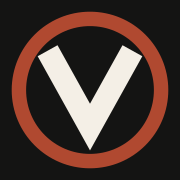
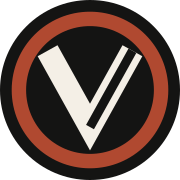
feat(website): sync Veristamp circle mark and double-slit V
- Pure-circle house mark in favicon, logo, app icons, ICO
- favicon.svg and logo.svg are OS-aware two-tone
- OG card emblem carries the double-slit V

diff --git a/website/src/pages/open-graph/[...slug].png.ts b/website/src/pages/open-graph/[...slug].png.ts
@@ -118,9 +118,12 @@ function generateSvg({
 
   <!-- Top bar -->
   <g transform="translate(80, 80)">
-    <!-- Veristamp attestation ring -->
-    <circle cx="18" cy="18" r="14.22" fill="none" stroke="#b04930" stroke-width="2.88"/>
-    <path fill="#f4efe6" d="M7.535 11.248 L18 30.084 L28.465 11.248 L24.5 9.045 L18 20.744 L11.5 9.045 Z"/>
+    <!-- Veristamp mark: ring, double-slit V -->
+    <mask id="vslit"><rect width="32" height="32" fill="#fff"/><line x1="23.54" y1="9.02" x2="16" y2="22.59" stroke="#000" stroke-width="1.6"/></mask>
+    <g transform="scale(1.125)">
+    <circle cx="16" cy="16" r="12.64" fill="none" stroke="#b04930" stroke-width="2.56"/>
+    <path fill="#f4efe6" mask="url(#vslit)" d="M6.698 9.998 L16 26.741 L25.302 9.998 L21.777 8.04 L16 18.439 L10.223 8.04 Z"/>
+    </g>
     <text x="48" y="25" font-family="DejaVu Serif, Georgia, serif" font-size="24" font-weight="700" fill="#f5f4ed" letter-spacing="-0.5">QQL</text>
     <text x="108" y="24" font-family="DejaVu Sans, Arial, sans-serif" font-size="13" font-weight="500" fill="#78716c" letter-spacing="0.5">/ ${escapeXml(SITE.org)}</text>
     
